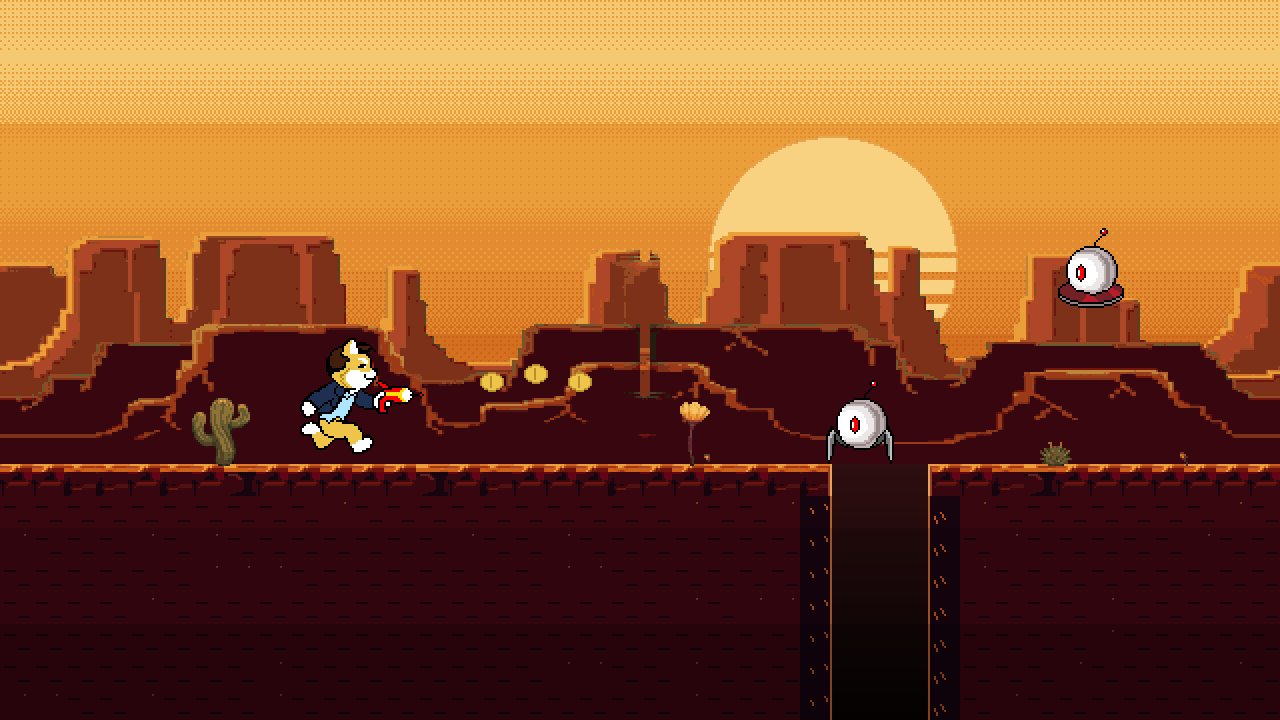
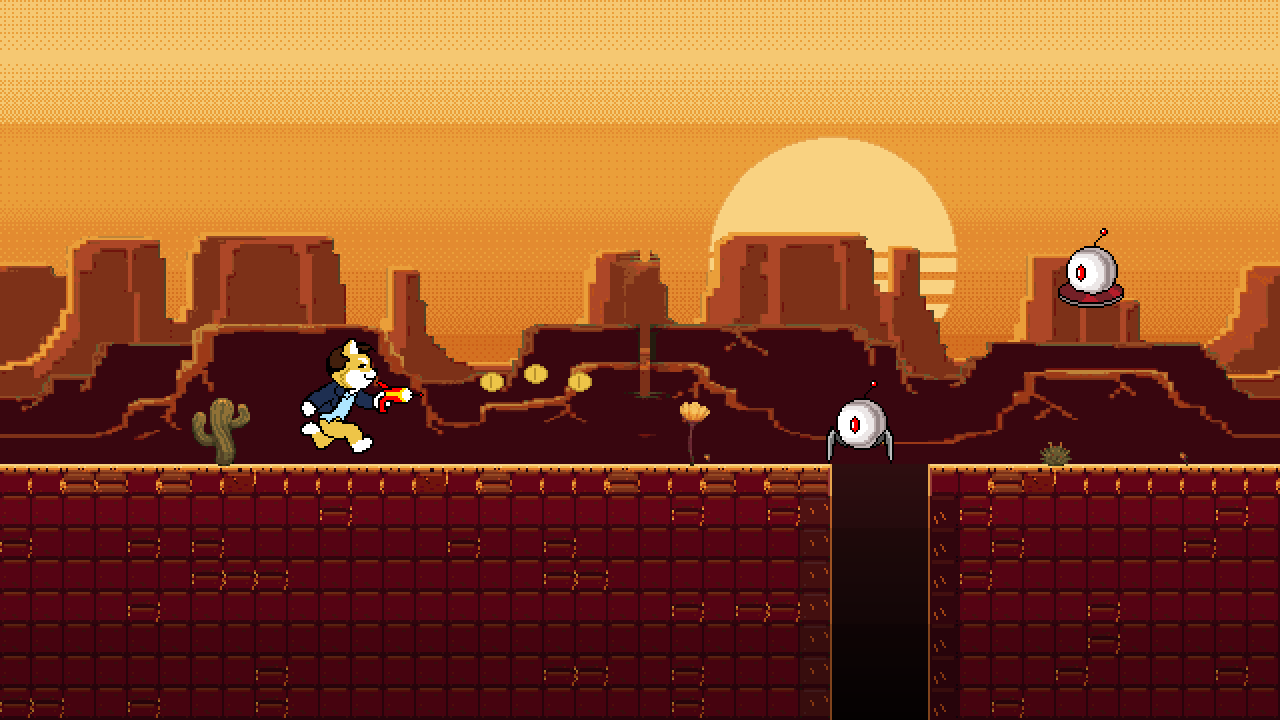
floor: true masonry per the approved direction sheet
The shipped floor matched the production mock, but the mock had silently
simplified the approved hybrid_b look — chunky stone-block courses, mortar
seams, ember cracks in the joints, strong lit crust. build_tiles now draws
that masonry on one fixed joint grid (any frame meshes with any neighbour),
block/mortar/ember colors sampled from the sheet's own floor band, still
quantized to the locked 43-color palette (verified 43 used across assets).
10-frame map semantics, coordinate-hashed variants and cache validity
unchanged; play.js cell decals retuned to weather the blocks instead of
striping them, and the baked depth bands deepened to the sheet's fade.
Acceptance composite committed: production/mocks/floor_vs_direction_sheet.png.
Only tiles.png/tiles_wow.png (+ mocks) changed in the production set.

Changed region(s): [[0.0, 0.6417, 0.6562, 1.0], [0.7188, 0.6417, 1.0, 1.0]]

diff --git a/web/game/scenes/play.js b/web/game/scenes/play.js
@@ -867,28 +867,35 @@ export function makePlay({ atlas, input, save, go, jukebox, sfx, toggleMute, xOn
         // decomposes per cell and BAKES — as does the pit void — which is why
         // neither costs a per-frame pass any more (the perf probe priced the
         // live full-width fills at ~2ms a frame at 4x throttle).
-        const bandAlpha = ty => ty < floorTy + 3 ? 0 : ty < floorTy + 5 ? 0.15
-                              : ty < floorTy + 8 ? 0.3 : 0.45;
+        // Retuned for the masonry tileset (fix round): the direction sheet
+        // fades its stonework to near-black by the fourth course, and the
+        // old gentle .15/.30 ramp left eight rows of full-brightness blocks
+        // — busier than the approved look and worse for sprite pop.
+        const bandAlpha = ty => ty < floorTy + 2 ? 0 : ty < floorTy + 3 ? 0.18
+                              : ty < floorTy + 5 ? 0.38 : ty < floorTy + 8 ? 0.55 : 0.7;
         const g = tileScratch.getContext('2d');
-        // Strata decals over the fill frames. Measured against the approved
-        // mocks, the shipped fill cells alone read too sparse: the mock floor
-        // carries ~1.5x the sediment dashes plus stone flecks and the odd
-        // bright ember pip per few cells. This stamps that detail back in —
-        // deterministic per coordinate, exact palette entries only, and baked
-        // into the cache so it costs nothing per frame.
+        // Per-cell decals over the fill frames, retuned for the masonry
+        // tileset (fix round): the fill frames repeat the same stone every
+        // 16px, so this stamps coordinate-hashed weathering ON the block
+        // body (mottle inside the 1..13 interior, clear of the mortar seams)
+        // plus the odd ember pip glowing IN a seam. Deterministic per
+        // coordinate, exact palette entries only, baked into the cache so it
+        // costs nothing per frame.
         const decal = (tx, ty, cx, cy) => {
           let h = hash2(tx + 0x9e37, ty);
           const px = (col, x, y, w2) => { g.fillStyle = col; g.fillRect(cx + x, cy + y, w2, 1); };
-          for (let i = 0, nd = 2 + (h & 1); i < nd; i++) {   // sediment dashes
+          for (let i = 0, nd = 1 + (h & 1); i < nd; i++) {   // block mottle
             h = hash2(h, i);
-            px('#16040f', h % 12, 2 + (h >>> 4) % 13, 2 + (h >>> 8) % 3);
+            px('#4f1212', 2 + h % 11, 3 + (h >>> 4) % 10, 1 + (h >>> 8) % 2);
           }
-          h = hash2(h, 77);                                   // stone flecks
-          px('#4f1212', h % 14, (h >>> 4) % 15, 1 + (h >>> 8) % 2);
-          if ((h >>> 12) % 3 === 0) px('#70140d', (h >>> 16) % 15, (h >>> 20) % 15, 1);
-          h = hash2(h, 9);                                    // ember pip
-          if (h % 4 === 0)
-            px((h >>> 8) & 1 ? '#e46016' : '#cb5316', 1 + h % 14, 2 + (h >>> 4) % 12, 1);
+          h = hash2(h, 77);                                   // a lighter scuff
+          if ((h >>> 12) % 3 === 0) px('#70140d', 2 + (h >>> 16) % 11, 3 + (h >>> 20) % 10, 2);
+          h = hash2(h, 9);                                    // ember pip in a seam
+          if (h % 4 === 0) {
+            const inRight = (h >>> 4) & 1;                    // right column vs bottom row
+            px((h >>> 8) & 1 ? '#e46016' : '#cb5316',
+               inRight ? 15 : 2 + h % 12, inRight ? 2 + h % 12 : 15, 1);
+          }
         };
         g.clearRect(0, 0, tileScratch.width, tileScratch.height);
         // Same-epoch window shift: copy the overlap, draw only exposed cells.

diff --git a/tools/genart_v2_prod.py b/tools/genart_v2_prod.py
@@ -303,75 +303,146 @@ def build_strip(name, size, palimg):
     return quantize_to(im, palimg)
 
 def build_tiles(palimg, base_sheet):
-    """10-frame 16px tileset sampled from the picked sheet's own ground band.
-    frames: 0 surface, 1 fill, 2 edgeL (surface, pit on the LEFT), 3 edgeR
-    (surface, pit on the RIGHT), 4 underside, 5 surface_v1, 6 surface_v2,
-    7 fill_v1, 8 pitwallL (pit on the LEFT), 9 pitwallR.
-    Interior fills are contrast-calmed so the 16px repeat stops strobing."""
-    g = base_sheet.convert('RGB')
-    edge = g.crop((0, 268, VW, 272))                    # lit edge + ember row
-    def stone(x0, y0): return g.crop((x0, y0, x0 + 16, y0 + 16))
-    def calm(t, k):
-        """Blend a tile toward its own mean color by k (kills busy repeats)."""
-        r = g_ = b = 0
-        px = t.load()
-        for y in range(16):
-            for x in range(16):
-                c = px[x, y]; r += c[0]; g_ += c[1]; b += c[2]
-        m = (r // 256, g_ // 256, b // 256)
-        o = t.copy(); op = o.load()
-        for y in range(16):
-            for x in range(16):
-                c = px[x, y]
-                op[x, y] = tuple(round(c[i] + (m[i] - c[i]) * k) for i in range(3))
-        return o
+    """10-frame 16px tileset — TRUE MASONRY, rebuilt to the APPROVED direction
+    sheet (hybrid_b): chunky stone-block courses with dark mortar seams, ember
+    cracks glowing in the joints, and a strong lit crust edge. The first
+    production build silently simplified this to a calmed near-flat fill (the
+    mock passed review, the sheet's material didn't ship) — caught in the
+    user playtest round. Block/mortar/crack colors are the sheet's own floor
+    band colors (sampled + verified against the native re-render), and every
+    tile is drawn on one fixed joint grid so any frame meshes with any
+    neighbour: courses are 8px, vertical joints sit at the same x per course
+    across all frames, so the bond runs unbroken across tile boundaries.
+    frames: 0 surface, 1 fill, 2 edgeL (pit on the LEFT), 3 edgeR, 4
+    underside, 5/6 surface variants, 7 fill variant, 8 pitwallL, 9 pitwallR."""
+    # Sheet floor colors (from the native re-render's floor band, see the fix
+    # round's sampling): block bodies, lit block tops, mortar darks, embers.
+    BLOCKS = [(118, 6, 19), (100, 4, 22), (109, 10, 21), (125, 49, 24)]
+    MORTAR = (46, 9, 19)
+    EMBER = [(225, 97, 26), (188, 80, 24), (234, 159, 58)]
+    CRUST_HI = (251, 214, 128)
+    lit = lambda c, k: tuple(min(255, int(v * k + 10)) for v in c)
+    drk = lambda c, k: tuple(max(0, int(v * k)) for v in c)
+
+    # Lit block tops, sampled straight off the sheet's stones rather than
+    # derived: the sheet lights its crimson blocks with an ORANGE-brown edge,
+    # and multiplying the base red never lands there.
+    TOPLIT = [(156, 57, 23), (134, 42, 20), (122, 39, 23)]
+
+    def block(d, rng, x0, x1, y0, y1, dim):
+        """One chunky stone block: mottled crimson body, orange-lit top,
+        shadowed bottom, 2px-notched (rounded) corners like the sheet's."""
+        base = drk(BLOCKS[rng.randrange(len(BLOCKS))], dim)
+        top = drk(TOPLIT[rng.randrange(len(TOPLIT))], dim)
+        d.rectangle([x0, y0, x1, y1], fill=base)
+        d.rectangle([x0, y0, x1, y0], fill=top)
+        d.rectangle([x0 + 2, y0 + 1, x1 - 2, y0 + 1], fill=lit(base, 1.16))
+        d.rectangle([x0, y1, x1, y1], fill=drk(base, 0.66))
+        for cx, cy, dx2, dy2 in ((x0, y0, 1, 0), (x1, y0, -1, 0),
+                                 (x0, y1, 1, 0), (x1, y1, -1, 0)):
+            d.point((cx, cy), fill=drk(base, 0.6))             # 2px round corner
+            d.point((cx + dx2, cy + dy2), fill=drk(base, 0.82))
+        for _ in range(5):                                     # body mottle
+            nx = rng.randint(x0 + 1, max(x0 + 1, x1 - 2))
+            ny = rng.randint(y0 + 2, max(y0 + 2, y1 - 1))
+            d.rectangle([nx, ny, nx + 1, ny], fill=drk(base, 0.85))
+        if rng.random() < 0.6:
+            d.point((rng.randint(x0 + 1, x1 - 1), rng.randint(y0 + 2, y1 - 1)),
+                    fill=lit(base, 1.2))
+
+    def crack(d, rng, x, y0, y1):
+        """Ember crack glowing in a joint: bright gold core, ember ends,
+        a jink or two on the way down — the sheet's signature detail."""
+        y = y0
+        while y <= y1:
+            e = EMBER[2] if y0 < y < y1 and rng.random() < 0.45 else \
+                EMBER[rng.randrange(2)]
+            d.point((x % 16, y), fill=e)
+            if rng.random() < 0.35:
+                x += rng.choice([-1, 1])
+            y += 1
+
+    def masonry(seed, dim=1.0, cracks=0, top=0, bot=15, split=False):
+        """One 16px course: a single chunky stone per tile (mortar seam on
+        the right column + bottom row, so neighbours share 1px joints), or a
+        split pair on the variant frames — block widths then read 8..16px
+        against the hash-scattered variants, like the sheet's mixed sizes."""
+        t = Image.new('RGB', (16, 16))
+        d = ImageDraw.Draw(t)
+        rng = random.Random(seed)
+        d.rectangle([0, top, 15, bot], fill=MORTAR)
+        if split:
+            mid = (top + bot) // 2
+            block(d, rng, 0, 14, top, mid - 1, dim)
+            block(d, rng, 0, 14, mid + 1, bot - 1, dim)
+        else:
+            block(d, rng, 0, 14, top, bot - 1, dim)
+        joint = 15
+        for _ in range(cracks):
+            cx = joint if rng.random() < 0.7 else 15
+            cy = rng.randint(top, max(top, bot - 6))
+            crack(d, rng, cx, cy, min(bot - 1, cy + rng.randint(3, 6)))
+        return t
+
+    def surface(seed, cracks=1, embers=2):
+        """Surface tile: the sheet's strong lit crust — a bumpy bright-gold
+        lip, an ember row broken by dark cracks — over a shortened course."""
+        t = masonry(seed, 1.05, cracks, top=4, bot=15, split=seed == 17)
+        d = ImageDraw.Draw(t)
+        rng = random.Random(seed ^ 0x5eed)
+        d.rectangle([0, 0, 15, 0], fill=CRUST_HI)
+        d.rectangle([0, 1, 15, 1], fill=(240, 176, 74))
+        d.rectangle([0, 2, 15, 2], fill=(224, 129, 38))
+        d.rectangle([0, 3, 15, 3], fill=(148, 73, 35))
+        for _ in range(2):                                     # bumpy lip
+            bx = rng.randrange(16)
+            d.point((bx, 1), fill=CRUST_HI)
+        for _ in range(3):                                     # crust cracks
+            cx = rng.randrange(16)
+            d.point((cx, 2), fill=(61, 10, 18))
+            if rng.random() < 0.6:
+                d.point((cx, 3), fill=(33, 5, 16))
+        for _ in range(embers):                                # crust embers
+            d.point((rng.randrange(16), 3), fill=EMBER[rng.randrange(3)])
+        return t
+
     im = Image.new('RGBA', (160, 16), (0, 0, 0, 0))
     def put(i, tile): im.paste(tile.convert('RGBA'), (i * 16, 0))
-    def surface(x0, sx, sy):
-        t = calm(stone(sx, sy), 0.35)
-        t.paste(edge.crop((x0, 0, x0 + 16, 4)), (0, 0))
-        px = t.load()                                    # punch the crust light
-        for y in range(2):
-            for x in range(16):
-                c = px[x, y]
-                px[x, y] = tuple(min(255, int(v * 1.3 + 14)) for v in c)
-        return t
-    put(0, surface(48, 96, 292))
-    put(5, surface(200, 260, 300))
-    put(6, surface(420, 470, 296))
-    def flat_fill(sx, sy, ember=False):
-        t = calm(stone(sx, sy), 1.0)                     # flat mean color
-        base = t.load()[0, 0]
-        d = ImageDraw.Draw(t)
-        dark = tuple(max(0, int(v * 0.88)) for v in base)
-        d.line([2, 5, 7, 5], fill=dark)                  # whisper sediment
-        d.line([9, 12, 14, 12], fill=dark)
-        if ember:
-            d.point([(12, 3)], fill='#8a3a1a')
-        return t
-    put(1, flat_fill(140, 300))
-    put(7, flat_fill(380, 308, ember=True))
+
+    put(0, surface(3, cracks=2, embers=2))
+    put(5, surface(17, cracks=2, embers=3))                    # worn: more ember
+    v6 = surface(29, cracks=1, embers=2)                       # worn: cracked block
+    d6 = ImageDraw.Draw(v6)
+    d6.line([4, 6, 6, 9], fill=MORTAR)
+    d6.point((5, 7), fill=EMBER[0])
+    put(6, v6)
+    put(1, masonry(7, 0.92))                                   # quiet fill
+    put(7, masonry(23, 0.92, cracks=2, split=True))            # split + ember fill
+
     def lit_col(t, x):
         d = ImageDraw.Draw(t)
-        d.rectangle([x, 0, x, 15], fill='#e8a54e')
+        d.rectangle([x, 0, x, 15], fill=(232, 165, 78))        # lit pit-facing edge
         d.rectangle([x + (1 if x == 0 else -1), 2,
-                     x + (1 if x == 0 else -1), 15], fill='#8a4030')
+                     x + (1 if x == 0 else -1), 15], fill=(138, 64, 48))
         return t
-    put(2, lit_col(surface(48, 96, 292), 0))             # pit to the LEFT
-    put(3, lit_col(surface(200, 260, 300), 15))          # pit to the RIGHT
-    un = calm(stone(210, 306), 0.45).copy(); dU = ImageDraw.Draw(un)
-    dU.rectangle([0, 15, 15, 15], fill='#1d0b10')        # underside lip
-    dU.rectangle([0, 14, 15, 14], fill='#3a1216')
+    put(2, lit_col(surface(3, cracks=0, embers=1), 0))         # pit to the LEFT
+    put(3, lit_col(surface(17, cracks=0, embers=1), 15))       # pit to the RIGHT
+
+    un = masonry(41, 0.8)                                      # underside lip
+    dU = ImageDraw.Draw(un)
+    dU.rectangle([0, 15, 15, 15], fill=(29, 11, 16))
+    dU.rectangle([0, 14, 15, 14], fill=(58, 18, 22))
     put(4, un)
-    for i, sx, lx in ((8, 130, 0), (9, 330, 15)):        # pit walls: darker,
-        t = calm(stone(sx, 320), 0.5).point(lambda v: int(v * 0.62))
+
+    for i, seed, lx in ((8, 51, 0), (9, 63, 15)):              # pit walls: darker
+        t = masonry(seed, 0.62)
         dP = ImageDraw.Draw(t)
-        dP.rectangle([lx, 0, lx, 15], fill='#b06030')    # lit pit-facing edge
+        dP.rectangle([lx, 0, lx, 15], fill=(176, 96, 48))      # lit pit-facing edge
         rng = random.Random(11 + i)
         for _ in range(2):
             x, y = rng.randrange(3, 13), rng.randrange(2, 14)
             dP.line([x, y, x + rng.randrange(1, 3), y + rng.randrange(1, 4)],
-                    fill='#c2540f')                       # ember crack
+                    fill=(194, 84, 15))                        # ember crack
         put(i, t)
     return quantize_to(im, palimg)
 
